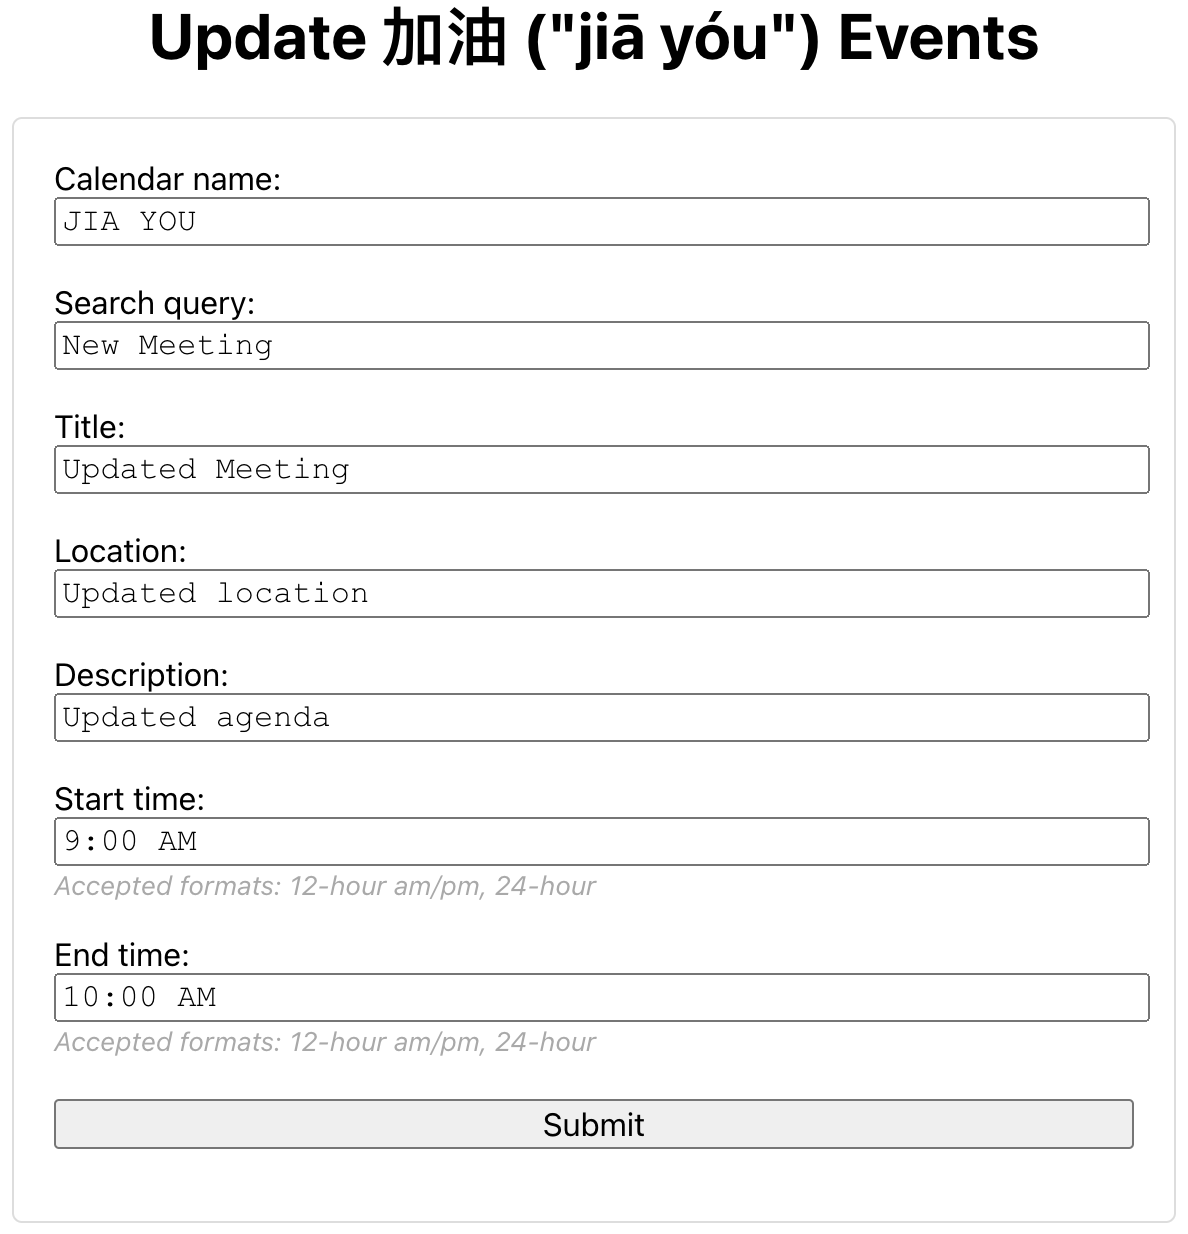
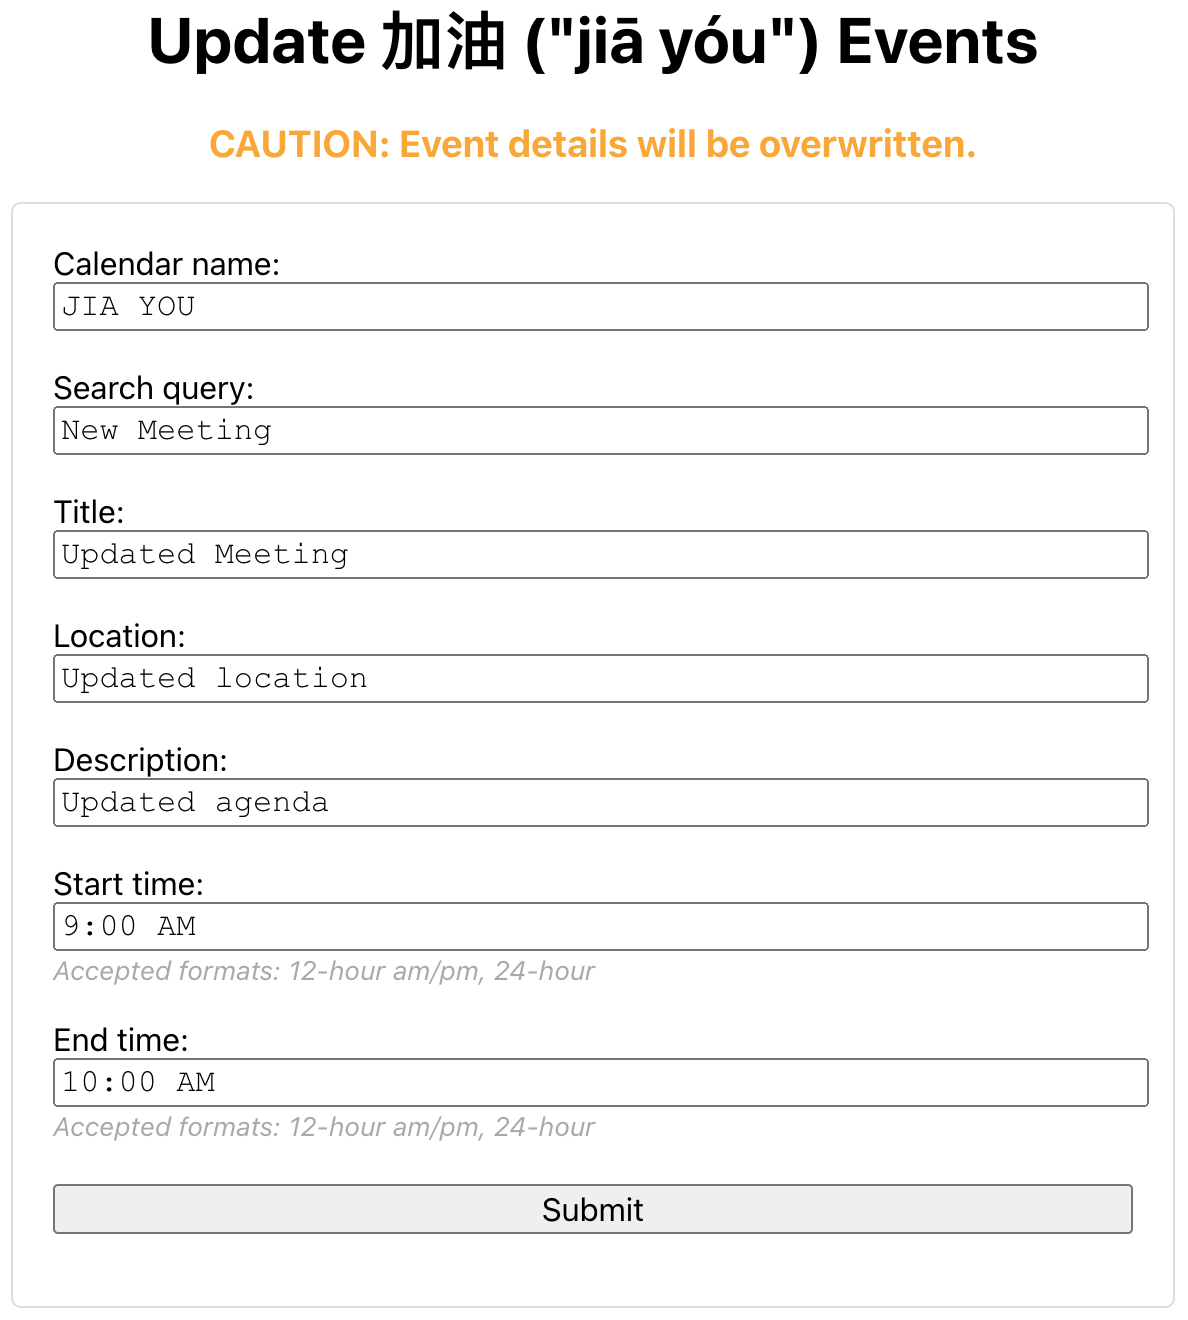
added caution

diff --git a/Index.html b/Index.html
@@ -23,7 +23,7 @@
         font-family: 'Courier New', Courier, monospace;
         font-size: medium;
       }
-      h1, label, input[type="submit"], text {
+      h1, h3, label, input[type="submit"], text {
         font-family: system-ui, -apple-system, BlinkMacSystemFont, 'Segoe UI', Roboto, Oxygen, Ubuntu, Cantarell, 'Open Sans', 'Helvetica Neue', sans-serif;
       }
       text {
@@ -35,6 +35,7 @@
   </head>
   <body>
     <h1><center>Update 加油 ("jiā yóu") Events</center></h1>
+    <h3><center><font style="color: orange;">CAUTION: Event details will be overwritten.</font></center></h3>
     <form id="calendarForm">
       <label for="calendarName">Calendar name:</label>
       <input type="text" id="calendarName" name="calendarName" value="JIA YOU" required>
